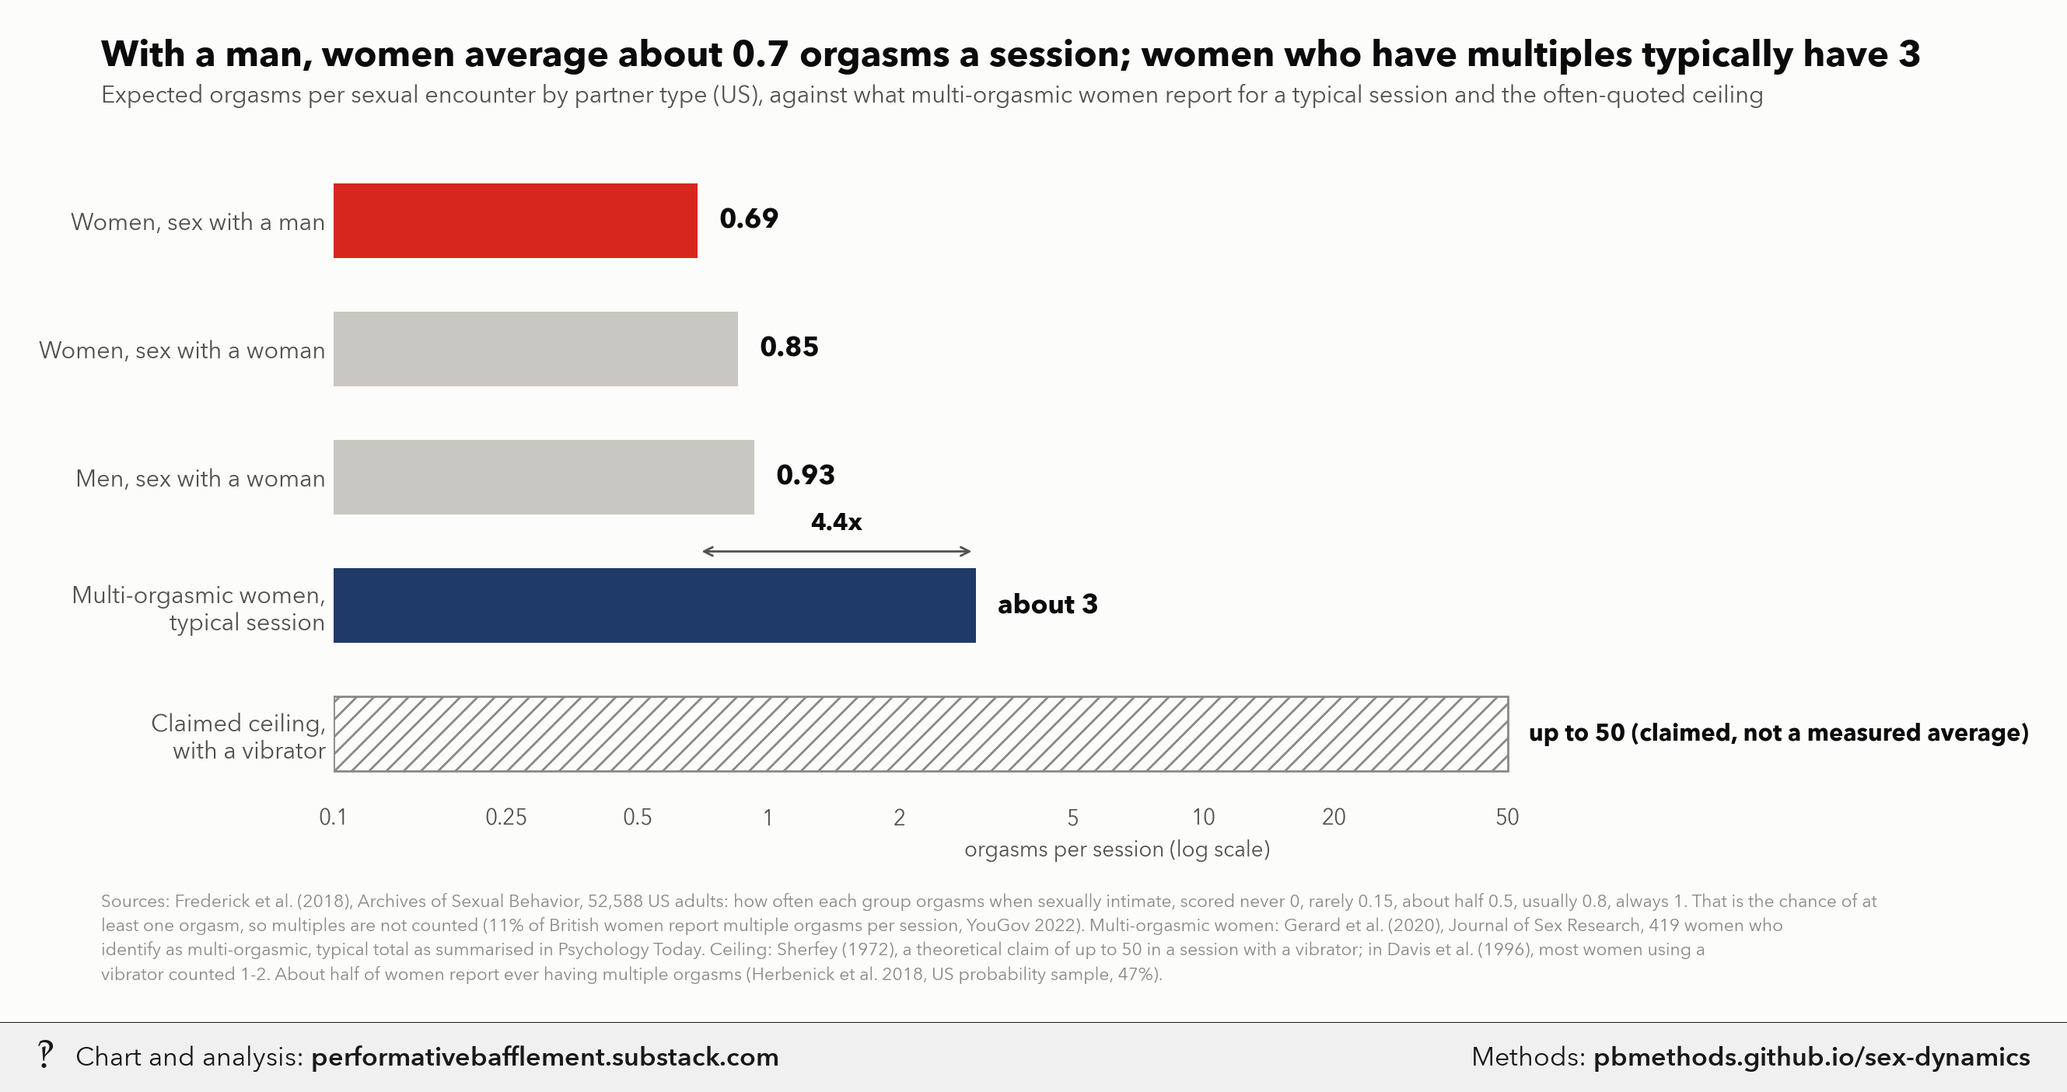
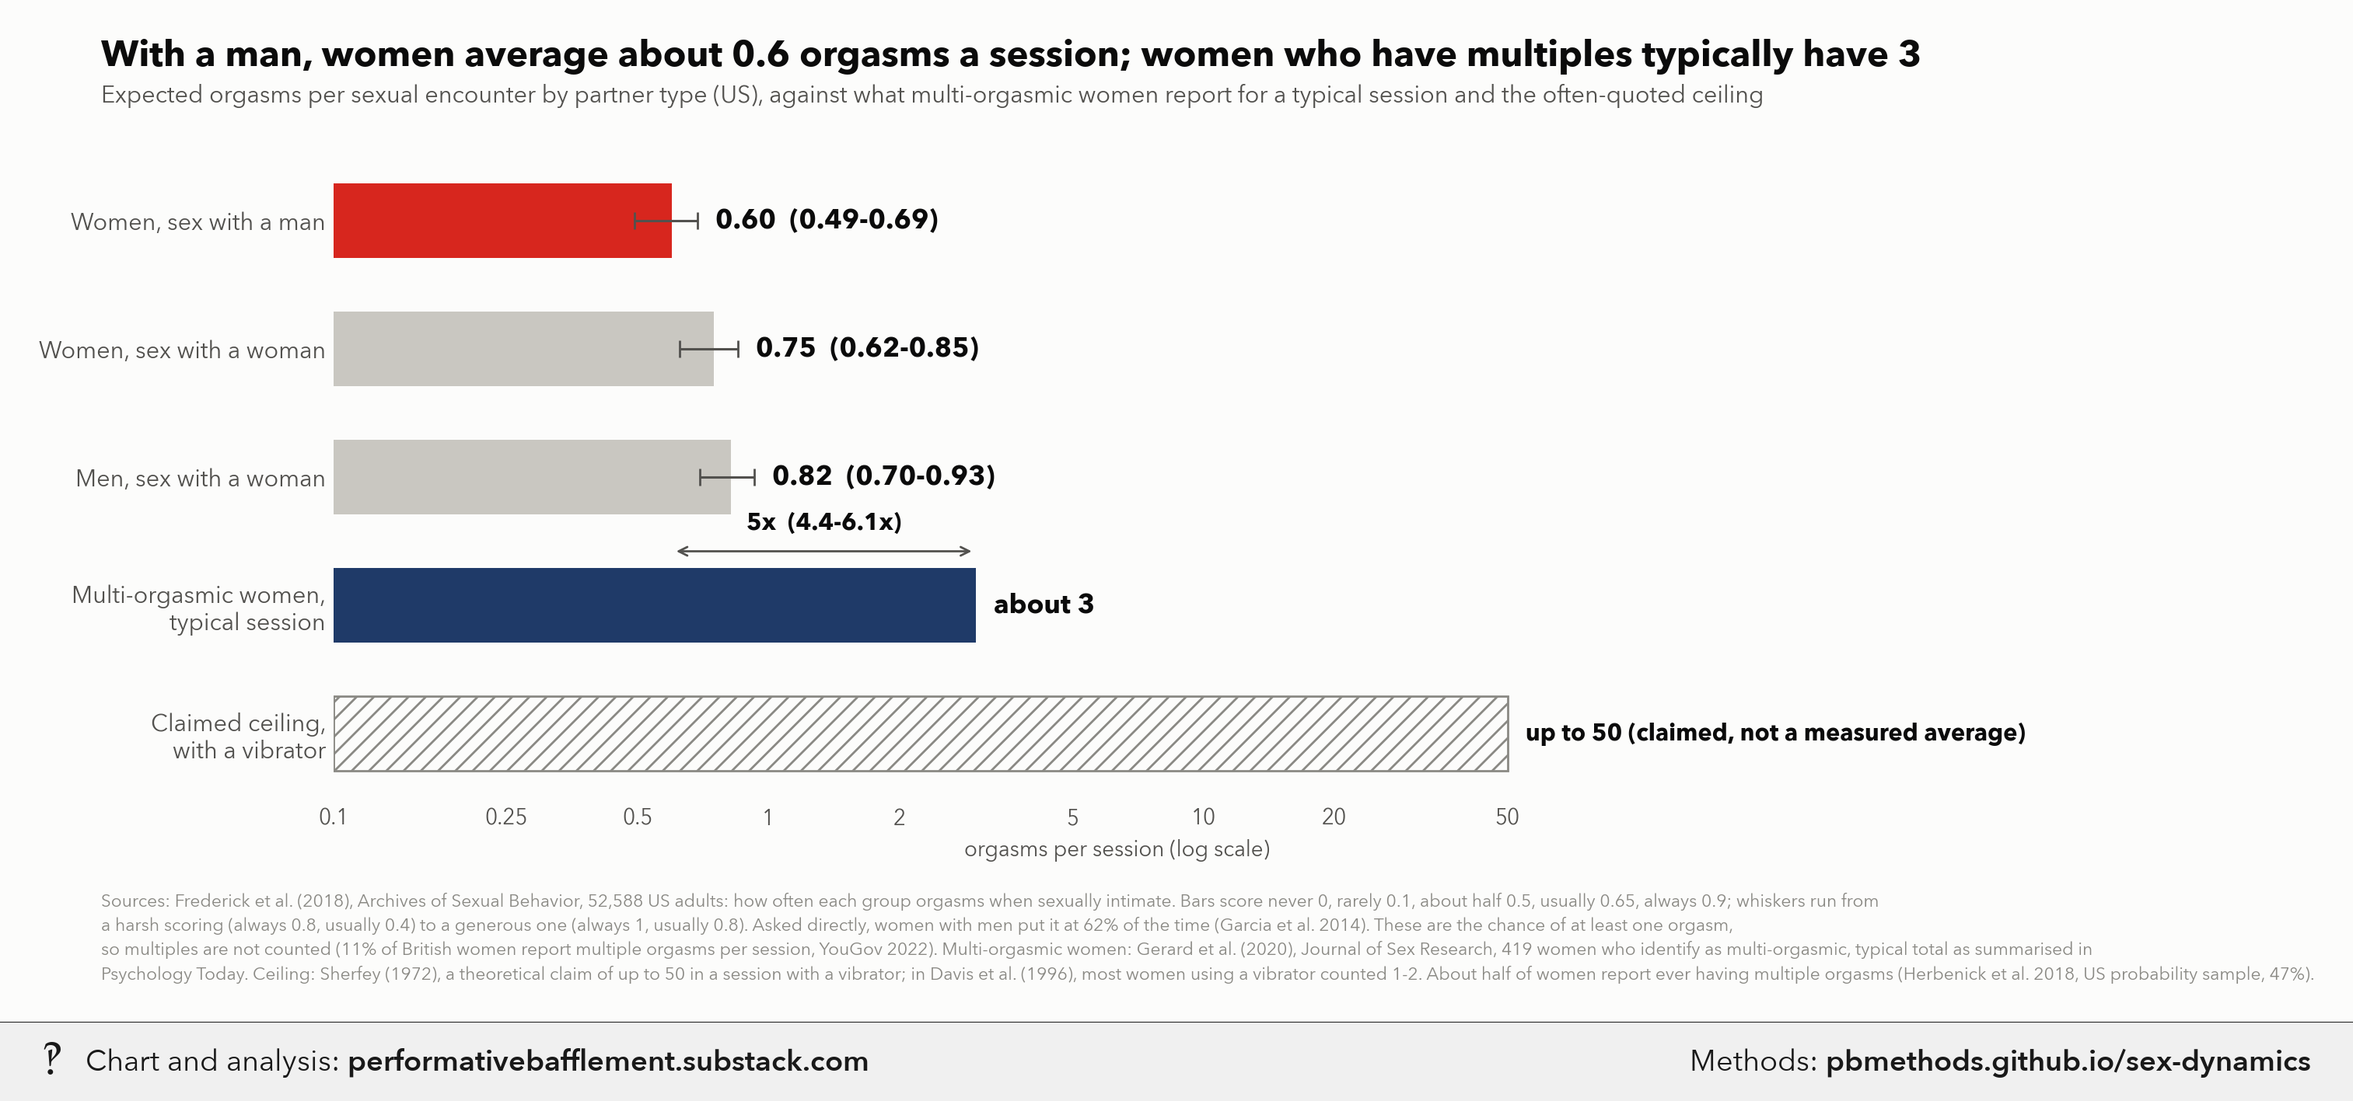
Update sex-dynamics

diff --git a/sex-dynamics/index.html b/sex-dynamics/index.html
@@ -3988,6 +3988,8 @@ Every number and method is in `master_post_data.py`'s docstring; caveats are in 
 <tr>
 <th>item</th>
 <th>value</th>
+<th>lo</th>
+<th>hi</th>
 <th>kind</th>
 <th>source</th>
 </tr>
@@ -3995,18 +3997,24 @@ Every number and method is in `master_post_data.py`'s docstring; caveats are in 
 <tbody>
 <tr>
 <td>Women, sex with a man</td>
+<td>0.600</td>
+<td>0.492</td>
 <td>0.686</td>
 <td>partnered</td>
-<td>Frederick et al. 2018 (US, n = 24,102), expected from the frequency distribution</td>
+<td>Frederick et al. 2018 (US, n = 24,102)</td>
 </tr>
 <tr>
 <td>Women, sex with a woman</td>
+<td>0.750</td>
+<td>0.625</td>
 <td>0.851</td>
 <td>partnered</td>
 <td>Frederick et al. 2018 (n = 340)</td>
 </tr>
 <tr>
 <td>Men, sex with a woman</td>
+<td>0.821</td>
+<td>0.697</td>
 <td>0.927</td>
 <td>partnered</td>
 <td>Frederick et al. 2018 (n = 26,032)</td>
@@ -4014,12 +4022,16 @@ Every number and method is in `master_post_data.py`'s docstring; caveats are in 
 <tr>
 <td>Multi-orgasmic women, typical session</td>
 <td>3.000</td>
+<td></td>
+<td></td>
 <td>capacity</td>
 <td>Gerard et al. 2020/21, J Sex Res (419 women), via Psychology Today</td>
 </tr>
 <tr>
 <td>Claimed ceiling, with a vibrator</td>
 <td>50.000</td>
+<td></td>
+<td></td>
 <td>ceiling</td>
 <td>Sherfey 1972, theoretical maximum</td>
 </tr>
@@ -5613,26 +5625,39 @@ pd.DataFrame({&quot;group&quot;: [&quot;heterosexual women&quot;, &quot;lesbian 
     source=&quot;Garcia et al. 2014, J Sex Med, abstract&quot;).to_csv(HERE / &quot;garcia2014_orgasm.csv&quot;, index=False)
 
 # Orgasms per session: what partnered sex delivers vs what women can do. Expected orgasms per encounter from
-# Frederick et al.'s frequency distribution (frederick_orgasm.csv), scoring never 0, rarely 0.15, about half 0.5,
-# usually 0.8, always 1.0. This is the chance of at least one orgasm, so it ignores multiples (YouGov 2022: 11% of
-# British women have multiple orgasms per session). Against it: the typical total for women who are multi-orgasmic
-# (3, Gerard et al. 2020/21, J Sex Res, 419 multi-orgasmic women, as summarised in Psychology Today; not checked
-# against the full text), and the often-cited ceiling of up to 50 in one session with a vibrator (Sherfey 1972, a
-# theoretical claim, not a measured average; in Davis et al. 1996, most women using a vibrator counted 1-2).
+# Frederick et al.'s frequency distribution (frederick_orgasm.csv) under three scorings of what each answer means
+# (never / rarely / about half / usually / always):
+#   harsh    0 / 0.15 / 0.5 / 0.4 / 0.8   (a reader's prior: &quot;always&quot; is generous, &quot;usually&quot; well under certain;
+#                                          scoring &quot;usually&quot; below &quot;about half&quot; contradicts the answer scale, so this
+#                                          is a floor)
+#   central  0 / 0.1  / 0.5 / 0.65 / 0.9
+#   generous 0 / 0.15 / 0.5 / 0.8  / 1.0
+# Cross-check that needs no scoring: Garcia et al. 2014 asked for the percent of the time directly (women with men
+# 61.6%). These are chances of at least one orgasm, so multiples are not counted (YouGov 2022: 11% of British women
+# have multiple orgasms per session). Against them: the typical total for women who are multi-orgasmic (3, Gerard et
+# al. 2020/21, J Sex Res, 419 multi-orgasmic women, as summarised in Psychology Today; not checked against the full
+# text), and the often-cited ceiling of up to 50 in one session with a vibrator (Sherfey 1972, a theoretical claim,
+# not a measured average; in Davis et al. 1996, most women using a vibrator counted 1-2).
 fr = pd.read_csv(HERE / &quot;frederick_orgasm.csv&quot;).set_index(&quot;group&quot;)
-SCORE = dict(never=0.0, rarely=0.15, half=0.5, usually=0.8, always=1.0)
-exp_org = {g: sum(fr.loc[g, k] / 100 * v for k, v in SCORE.items()) for g in fr.index}
-print({g: round(v, 2) for g, v in exp_org.items()})
+SCORES = dict(harsh=dict(never=0, rarely=0.15, half=0.5, usually=0.4, always=0.8),
+              central=dict(never=0, rarely=0.1, half=0.5, usually=0.65, always=0.9),
+              generous=dict(never=0, rarely=0.15, half=0.5, usually=0.8, always=1.0))
+expo = {sc: {g: sum(fr.loc[g, k] / 100 * v for k, v in SC.items()) for g in fr.index} for sc, SC in SCORES.items()}
+print(pd.DataFrame(expo).round(3))
+
+
+def prow(item, g, src):
+    return dict(item=item, value=expo[&quot;central&quot;][g], lo=expo[&quot;harsh&quot;][g], hi=expo[&quot;generous&quot;][g], kind=&quot;partnered&quot;,
+                source=src)
+
+
 pd.DataFrame([
-    dict(item=&quot;Women, sex with a man&quot;, value=exp_org[&quot;heterosexual women&quot;], kind=&quot;partnered&quot;,
-         source=&quot;Frederick et al. 2018 (US, n = 24,102), expected from the frequency distribution&quot;),
-    dict(item=&quot;Women, sex with a woman&quot;, value=exp_org[&quot;lesbian women&quot;], kind=&quot;partnered&quot;,
-         source=&quot;Frederick et al. 2018 (n = 340)&quot;),
-    dict(item=&quot;Men, sex with a woman&quot;, value=exp_org[&quot;heterosexual men&quot;], kind=&quot;partnered&quot;,
-         source=&quot;Frederick et al. 2018 (n = 26,032)&quot;),
-    dict(item=&quot;Multi-orgasmic women, typical session&quot;, value=3.0, kind=&quot;capacity&quot;,
+    prow(&quot;Women, sex with a man&quot;, &quot;heterosexual women&quot;, &quot;Frederick et al. 2018 (US, n = 24,102)&quot;),
+    prow(&quot;Women, sex with a woman&quot;, &quot;lesbian women&quot;, &quot;Frederick et al. 2018 (n = 340)&quot;),
+    prow(&quot;Men, sex with a woman&quot;, &quot;heterosexual men&quot;, &quot;Frederick et al. 2018 (n = 26,032)&quot;),
+    dict(item=&quot;Multi-orgasmic women, typical session&quot;, value=3.0, lo=np.nan, hi=np.nan, kind=&quot;capacity&quot;,
          source=&quot;Gerard et al. 2020/21, J Sex Res (419 women), via Psychology Today&quot;),
-    dict(item=&quot;Claimed ceiling, with a vibrator&quot;, value=50.0, kind=&quot;ceiling&quot;,
+    dict(item=&quot;Claimed ceiling, with a vibrator&quot;, value=50.0, lo=np.nan, hi=np.nan, kind=&quot;ceiling&quot;,
          source=&quot;Sherfey 1972, theoretical maximum&quot;),
 ]).to_csv(HERE / &quot;orgasm_capacity.csv&quot;, index=False)
 
@@ -6702,8 +6727,12 @@ for yi, r in zip(yv, oc.itertuples()):
         txt = f&quot;up to {r.value:.0f} (claimed, not a measured average)&quot;
     else:
         ax.barh(yi, r.value - 0.1, left=0.1, height=0.58, color=COLS.get(r.item, MUTE))
-        txt = f&quot;{r.value:.2f}&quot; if r.value &lt; 1 else f&quot;about {r.value:.0f}&quot;
-    ax.text(r.value * 1.12, yi, txt, va=&quot;center&quot;, fontsize=12.5 if r.kind != &quot;ceiling&quot; else 11,
+        txt = f&quot;about {r.value:.0f}&quot;
+        if r.kind == &quot;partnered&quot;:
+            ax.errorbar(r.value, yi, xerr=[[r.value - r.lo], [r.hi - r.value]], fmt=&quot;none&quot;, ecolor=INK2,
+                        elinewidth=1.1, capsize=4)
+            txt = f&quot;{r.value:.2f}  ({r.lo:.2f}-{r.hi:.2f})&quot;
+    ax.text((r.hi if r.kind == &quot;partnered&quot; else r.value) * 1.1, yi, txt, va=&quot;center&quot;, fontsize=12.5 if r.kind != &quot;ceiling&quot; else 11,
             fontweight=&quot;bold&quot;, color=INK)
 ax.set_xscale(&quot;log&quot;); ax.set_xlim(0.1, 400)
 ax.set_xticks([0.1, 0.25, 0.5, 1, 2, 5, 10, 20, 50], [&quot;0.1&quot;, &quot;0.25&quot;, &quot;0.5&quot;, &quot;1&quot;, &quot;2&quot;, &quot;5&quot;, &quot;10&quot;, &quot;20&quot;, &quot;50&quot;])
@@ -6714,17 +6743,20 @@ ax.grid(axis=&quot;y&quot;, visible=False)
 ax.set_xlabel(&quot;orgasms per session (log scale)&quot;)
 w_, m_ = oc.value.iloc[0], oc.value.iloc[3]
 ax.annotate(&quot;&quot;, xy=(m_, 1.42), xytext=(w_, 1.42), arrowprops=dict(arrowstyle=&quot;&lt;-&gt;&quot;, color=INK2, lw=1.0))
-ax.text(np.sqrt(w_ * m_), 1.55, f&quot;{m_ / w_:.1f}x&quot;, ha=&quot;center&quot;, va=&quot;bottom&quot;, fontsize=11, fontweight=&quot;bold&quot;, color=INK)
+lo_, hi_ = oc.lo.iloc[0], oc.hi.iloc[0]
+ax.text(np.sqrt(w_ * m_), 1.55, f&quot;{m_ / w_:.0f}x  ({m_ / hi_:.1f}-{m_ / lo_:.1f}x)&quot;, ha=&quot;center&quot;, va=&quot;bottom&quot;, fontsize=11, fontweight=&quot;bold&quot;, color=INK)
 header(fig, f&quot;With a man, women average about {w_:.1f} orgasms a session; women who have multiples typically have 3&quot;,
        &quot;Expected orgasms per sexual encounter by partner type (US), against what multi-orgasmic women report for a &quot;
        &quot;typical session and the often-quoted ceiling&quot;, y=0.9)
 footnote(fig, &quot;Sources: Frederick et al. (2018), Archives of Sexual Behavior, 52,588 US adults: how often each group &quot;
-              &quot;orgasms when sexually intimate, scored never 0, rarely 0.15, about half 0.5, usually 0.8, always 1. &quot;
-              &quot;That is the chance of at\nleast one orgasm, so multiples are not counted (11% of British women report &quot;
+              &quot;orgasms when sexually intimate. Bars score never 0, rarely 0.1, about half 0.5, usually 0.65, always 0.9; &quot;
+              &quot;whiskers run from\na harsh scoring (always 0.8, usually 0.4) to a generous one (always 1, usually 0.8). &quot;
+              &quot;Asked directly, women with men put it at 62% of the time (Garcia et al. 2014). These are the chance of &quot;
+              &quot;at least one orgasm,\nso multiples are not counted (11% of British women report &quot;
               &quot;multiple orgasms per session, YouGov 2022). Multi-orgasmic women: Gerard et al. (2020), Journal of Sex &quot;
-              &quot;Research, 419 women who\nidentify as multi-orgasmic, typical total as summarised in Psychology Today. &quot;
+              &quot;Research, 419 women who identify as multi-orgasmic, typical total as summarised in\nPsychology Today. &quot;
               &quot;Ceiling: Sherfey (1972), a theoretical claim of up to 50 in a session with a vibrator; in Davis et al. &quot;
-              &quot;(1996), most women using a\nvibrator counted 1-2. About half of women report ever having multiple &quot;
+              &quot;(1996), most women using a vibrator counted 1-2. About half of women report ever having multiple &quot;
               &quot;orgasms (Herbenick et al. 2018, US probability sample, 47%).&quot;, y=0.0)
 save(fig, &quot;orgasm_capacity&quot;)
 

diff --git a/sex-dynamics/methods.md b/sex-dynamics/methods.md
@@ -759,13 +759,13 @@ _Every 2th row of 117 shown; full file: [natsal_desire_matching.csv](natsal_desi
 
 ### `orgasm_capacity.csv`
 
-| item | value | kind | source |
-|---|---|---|---|
-| Women, sex with a man | 0.686 | partnered | Frederick et al. 2018 (US, n = 24,102), expected from the frequency distribution |
-| Women, sex with a woman | 0.851 | partnered | Frederick et al. 2018 (n = 340) |
-| Men, sex with a woman | 0.927 | partnered | Frederick et al. 2018 (n = 26,032) |
-| Multi-orgasmic women, typical session | 3.000 | capacity | Gerard et al. 2020/21, J Sex Res (419 women), via Psychology Today |
-| Claimed ceiling, with a vibrator | 50.000 | ceiling | Sherfey 1972, theoretical maximum |
+| item | value | lo | hi | kind | source |
+|---|---|---|---|---|---|
+| Women, sex with a man | 0.600 | 0.492 | 0.686 | partnered | Frederick et al. 2018 (US, n = 24,102) |
+| Women, sex with a woman | 0.750 | 0.625 | 0.851 | partnered | Frederick et al. 2018 (n = 340) |
+| Men, sex with a woman | 0.821 | 0.697 | 0.927 | partnered | Frederick et al. 2018 (n = 26,032) |
+| Multi-orgasmic women, typical session | 3.000 |  |  | capacity | Gerard et al. 2020/21, J Sex Res (419 women), via Psychology Today |
+| Claimed ceiling, with a vibrator | 50.000 |  |  | ceiling | Sherfey 1972, theoretical maximum |
 
 ### `natsal_orgasm_drivers.csv`
 
@@ -1844,26 +1844,39 @@ pd.DataFrame({"group": ["heterosexual women", "lesbian women", "gay men", "heter
     source="Garcia et al. 2014, J Sex Med, abstract").to_csv(HERE / "garcia2014_orgasm.csv", index=False)
 
 # Orgasms per session: what partnered sex delivers vs what women can do. Expected orgasms per encounter from
-# Frederick et al.'s frequency distribution (frederick_orgasm.csv), scoring never 0, rarely 0.15, about half 0.5,
-# usually 0.8, always 1.0. This is the chance of at least one orgasm, so it ignores multiples (YouGov 2022: 11% of
-# British women have multiple orgasms per session). Against it: the typical total for women who are multi-orgasmic
-# (3, Gerard et al. 2020/21, J Sex Res, 419 multi-orgasmic women, as summarised in Psychology Today; not checked
-# against the full text), and the often-cited ceiling of up to 50 in one session with a vibrator (Sherfey 1972, a
-# theoretical claim, not a measured average; in Davis et al. 1996, most women using a vibrator counted 1-2).
+# Frederick et al.'s frequency distribution (frederick_orgasm.csv) under three scorings of what each answer means
+# (never / rarely / about half / usually / always):
+#   harsh    0 / 0.15 / 0.5 / 0.4 / 0.8   (a reader's prior: "always" is generous, "usually" well under certain;
+#                                          scoring "usually" below "about half" contradicts the answer scale, so this
+#                                          is a floor)
+#   central  0 / 0.1  / 0.5 / 0.65 / 0.9
+#   generous 0 / 0.15 / 0.5 / 0.8  / 1.0
+# Cross-check that needs no scoring: Garcia et al. 2014 asked for the percent of the time directly (women with men
+# 61.6%). These are chances of at least one orgasm, so multiples are not counted (YouGov 2022: 11% of British women
+# have multiple orgasms per session). Against them: the typical total for women who are multi-orgasmic (3, Gerard et
+# al. 2020/21, J Sex Res, 419 multi-orgasmic women, as summarised in Psychology Today; not checked against the full
+# text), and the often-cited ceiling of up to 50 in one session with a vibrator (Sherfey 1972, a theoretical claim,
+# not a measured average; in Davis et al. 1996, most women using a vibrator counted 1-2).
 fr = pd.read_csv(HERE / "frederick_orgasm.csv").set_index("group")
-SCORE = dict(never=0.0, rarely=0.15, half=0.5, usually=0.8, always=1.0)
-exp_org = {g: sum(fr.loc[g, k] / 100 * v for k, v in SCORE.items()) for g in fr.index}
-print({g: round(v, 2) for g, v in exp_org.items()})
+SCORES = dict(harsh=dict(never=0, rarely=0.15, half=0.5, usually=0.4, always=0.8),
+              central=dict(never=0, rarely=0.1, half=0.5, usually=0.65, always=0.9),
+              generous=dict(never=0, rarely=0.15, half=0.5, usually=0.8, always=1.0))
+expo = {sc: {g: sum(fr.loc[g, k] / 100 * v for k, v in SC.items()) for g in fr.index} for sc, SC in SCORES.items()}
+print(pd.DataFrame(expo).round(3))
+
+
+def prow(item, g, src):
+    return dict(item=item, value=expo["central"][g], lo=expo["harsh"][g], hi=expo["generous"][g], kind="partnered",
+                source=src)
+
+
 pd.DataFrame([
-    dict(item="Women, sex with a man", value=exp_org["heterosexual women"], kind="partnered",
-         source="Frederick et al. 2018 (US, n = 24,102), expected from the frequency distribution"),
-    dict(item="Women, sex with a woman", value=exp_org["lesbian women"], kind="partnered",
-         source="Frederick et al. 2018 (n = 340)"),
-    dict(item="Men, sex with a woman", value=exp_org["heterosexual men"], kind="partnered",
-         source="Frederick et al. 2018 (n = 26,032)"),
-    dict(item="Multi-orgasmic women, typical session", value=3.0, kind="capacity",
+    prow("Women, sex with a man", "heterosexual women", "Frederick et al. 2018 (US, n = 24,102)"),
+    prow("Women, sex with a woman", "lesbian women", "Frederick et al. 2018 (n = 340)"),
+    prow("Men, sex with a woman", "heterosexual men", "Frederick et al. 2018 (n = 26,032)"),
+    dict(item="Multi-orgasmic women, typical session", value=3.0, lo=np.nan, hi=np.nan, kind="capacity",
          source="Gerard et al. 2020/21, J Sex Res (419 women), via Psychology Today"),
-    dict(item="Claimed ceiling, with a vibrator", value=50.0, kind="ceiling",
+    dict(item="Claimed ceiling, with a vibrator", value=50.0, lo=np.nan, hi=np.nan, kind="ceiling",
          source="Sherfey 1972, theoretical maximum"),
 ]).to_csv(HERE / "orgasm_capacity.csv", index=False)
 
@@ -2936,8 +2949,12 @@ for yi, r in zip(yv, oc.itertuples()):
         txt = f"up to {r.value:.0f} (claimed, not a measured average)"
     else:
         ax.barh(yi, r.value - 0.1, left=0.1, height=0.58, color=COLS.get(r.item, MUTE))
-        txt = f"{r.value:.2f}" if r.value < 1 else f"about {r.value:.0f}"
-    ax.text(r.value * 1.12, yi, txt, va="center", fontsize=12.5 if r.kind != "ceiling" else 11,
+        txt = f"about {r.value:.0f}"
+        if r.kind == "partnered":
+            ax.errorbar(r.value, yi, xerr=[[r.value - r.lo], [r.hi - r.value]], fmt="none", ecolor=INK2,
+                        elinewidth=1.1, capsize=4)
+            txt = f"{r.value:.2f}  ({r.lo:.2f}-{r.hi:.2f})"
+    ax.text((r.hi if r.kind == "partnered" else r.value) * 1.1, yi, txt, va="center", fontsize=12.5 if r.kind != "ceiling" else 11,
             fontweight="bold", color=INK)
 ax.set_xscale("log"); ax.set_xlim(0.1, 400)
 ax.set_xticks([0.1, 0.25, 0.5, 1, 2, 5, 10, 20, 50], ["0.1", "0.25", "0.5", "1", "2", "5", "10", "20", "50"])
@@ -2948,17 +2965,20 @@ ax.grid(axis="y", visible=False)
 ax.set_xlabel("orgasms per session (log scale)")
 w_, m_ = oc.value.iloc[0], oc.value.iloc[3]
 ax.annotate("", xy=(m_, 1.42), xytext=(w_, 1.42), arrowprops=dict(arrowstyle="<->", color=INK2, lw=1.0))
-ax.text(np.sqrt(w_ * m_), 1.55, f"{m_ / w_:.1f}x", ha="center", va="bottom", fontsize=11, fontweight="bold", color=INK)
+lo_, hi_ = oc.lo.iloc[0], oc.hi.iloc[0]
+ax.text(np.sqrt(w_ * m_), 1.55, f"{m_ / w_:.0f}x  ({m_ / hi_:.1f}-{m_ / lo_:.1f}x)", ha="center", va="bottom", fontsize=11, fontweight="bold", color=INK)
 header(fig, f"With a man, women average about {w_:.1f} orgasms a session; women who have multiples typically have 3",
        "Expected orgasms per sexual encounter by partner type (US), against what multi-orgasmic women report for a "
        "typical session and the often-quoted ceiling", y=0.9)
 footnote(fig, "Sources: Frederick et al. (2018), Archives of Sexual Behavior, 52,588 US adults: how often each group "
-              "orgasms when sexually intimate, scored never 0, rarely 0.15, about half 0.5, usually 0.8, always 1. "
-              "That is the chance of at\nleast one orgasm, so multiples are not counted (11% of British women report "
+              "orgasms when sexually intimate. Bars score never 0, rarely 0.1, about half 0.5, usually 0.65, always 0.9; "
+              "whiskers run from\na harsh scoring (always 0.8, usually 0.4) to a generous one (always 1, usually 0.8). "
+              "Asked directly, women with men put it at 62% of the time (Garcia et al. 2014). These are the chance of "
+              "at least one orgasm,\nso multiples are not counted (11% of British women report "
               "multiple orgasms per session, YouGov 2022). Multi-orgasmic women: Gerard et al. (2020), Journal of Sex "
-              "Research, 419 women who\nidentify as multi-orgasmic, typical total as summarised in Psychology Today. "
+              "Research, 419 women who identify as multi-orgasmic, typical total as summarised in\nPsychology Today. "
               "Ceiling: Sherfey (1972), a theoretical claim of up to 50 in a session with a vibrator; in Davis et al. "
-              "(1996), most women using a\nvibrator counted 1-2. About half of women report ever having multiple "
+              "(1996), most women using a vibrator counted 1-2. About half of women report ever having multiple "
               "orgasms (Herbenick et al. 2018, US probability sample, 47%).", y=0.0)
 save(fig, "orgasm_capacity")
 
